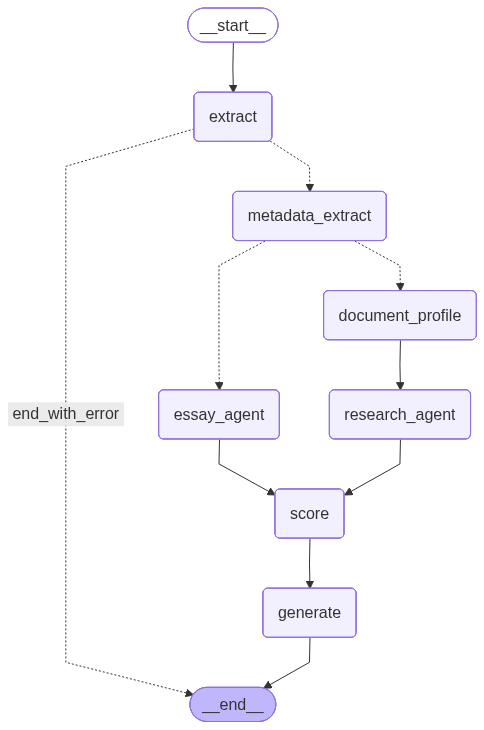
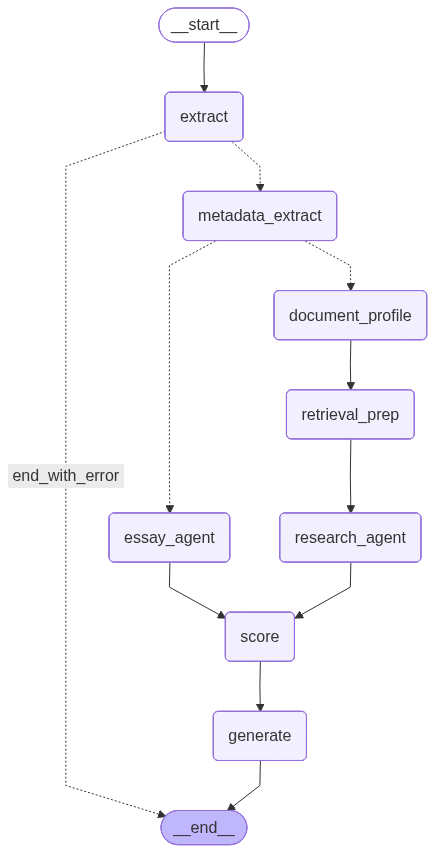
add: retrieval prep for search query generation

diff --git a/ai-agent/app/graph/nodes/retrieval_prep.py b/ai-agent/app/graph/nodes/retrieval_prep.py
@@ -1,0 +1,202 @@
+"""
+retrieval_prep.py — Retrieval Preparation Node (Fase 4)
+========================================================
+Node query generation khusus jalur research.
+Membangun search queries terstruktur dari metadata dan profil dokumen.
+
+Query dibangun per sumber:
+- semanticscholar: bahasa akademik formal, nama konsep lengkap
+- arxiv: istilah teknis presisi, singkatan metode
+- tavily: implementasi, benchmark, konteks umum
+
+Input: title, abstract, keywords, domain, sub_domain, paper_type, retrieval_focus
+Output: search_queries = {"semanticscholar": [...], "arxiv": [...], "tavily": [...]}
+
+Search belum dijalankan di fase ini — hanya pembentukan query.
+
+Flow: ... → document_profile → retrieval_prep → research_agent → ...
+"""
+
+import json
+import re
+
+from langchain_groq import ChatGroq
+from langchain_core.messages import SystemMessage, HumanMessage
+
+from app.graph.state import ReviewEngineState
+from app.core.config import settings
+
+# ── CONSTANTS ────────────────────────────────────────────────────────────────
+
+QUERY_GEN_SYSTEM_PROMPT = """Kamu adalah ahli strategi pencarian literatur akademik.
+Diberikan metadata dan profil sebuah paper, buat search query yang optimal untuk tiga mesin pencari berbeda.
+
+Setiap mesin pencari punya kekuatan berbeda:
+- semanticscholar: database akademik — gunakan bahasa akademik formal, nama konsep lengkap, nama penulis penting jika ada
+- arxiv: server preprint — gunakan istilah teknis presisi, nama model, singkatan metode
+- tavily: web search umum — gunakan istilah praktis, implementasi, benchmark, konteks terapan
+
+Jawab HANYA dengan objek JSON valid (tanpa markdown fences, tanpa teks tambahan):
+{
+  "semanticscholar": ["query1", "query2", "query3"],
+  "arxiv": ["query1", "query2", "query3"],
+  "tavily": ["query1", "query2", "query3"]
+}
+
+Aturan:
+- 3 query per mesin pencari, masing-masing maksimal 12 kata
+- Buat query dari spesifik ke umum: judul spesifik → metode → broader context
+- Gunakan sudut pandang berbeda: nama metode, masalah yang dipecahkan, perbandingan baseline, domain aplikasi
+- Untuk arxiv/semanticscholar: utamakan terminologi teknis/akademik
+- Untuk tavily: sertakan juga istilah praktis/implementasi
+- Sesuaikan query berdasarkan retrieval_focus yang diberikan
+"""
+
+
+# ── HELPERS ──────────────────────────────────────────────────────────────────
+
+def _safe_log(analysis_id: str, step: str, status: str, message: str) -> None:
+    """Logging ke Laravel secara best-effort."""
+    try:
+        import asyncio
+        from app.services.laravel_client import log_step
+        try:
+            loop = asyncio.get_running_loop()
+            loop.create_task(log_step(analysis_id, step, status, message))
+        except RuntimeError:
+            asyncio.run(log_step(analysis_id, step, status, message))
+    except Exception as exc:
+        print(f"[retrieval_prep][log_step] log gagal (diabaikan): {exc}")
+
+
+def _clean_llm_json(raw: str) -> str:
+    """Bersihkan output LLM dari markdown fences."""
+    raw = raw.strip()
+    raw = re.sub(r"^```(?:json)?\s*", "", raw)
+    raw = re.sub(r"\s*```$", "", raw)
+    return raw.strip()
+
+
+def _build_fallback_queries(state: ReviewEngineState) -> dict[str, list[str]]:
+    """Fallback queries berdasarkan title dan domain jika LLM gagal."""
+    title = (state.get("title") or "")[:80]
+    domain = state.get("domain") or "general"
+    sub_domain = state.get("sub_domain") or "general"
+    keywords = state.get("keywords") or []
+
+    # Query dasar dari title
+    base_query = title if title else f"{domain} {sub_domain}"
+    keyword_query = " ".join(keywords[:3]) if keywords else sub_domain
+
+    return {
+        "semanticscholar": [
+            base_query,
+            f"{sub_domain} state of the art",
+            keyword_query,
+        ],
+        "arxiv": [
+            base_query,
+            f"{sub_domain} survey",
+            keyword_query,
+        ],
+        "tavily": [
+            base_query,
+            f"{domain} research methods",
+            f"{sub_domain} implementation",
+        ],
+    }
+
+
+# ── NODE UTAMA ───────────────────────────────────────────────────────────────
+
+async def retrieval_prep_node(state: ReviewEngineState) -> dict:
+    """
+    LangGraph node: Generate search queries dari metadata & profil dokumen.
+
+    Input dari state:
+        - title, abstract, keywords (dari metadata_extract)
+        - domain, sub_domain, paper_type, retrieval_focus (dari document_profile)
+        - analysis_id (untuk logging)
+
+    Output (di-merge ke state):
+        - search_queries : dict per source, masing-masing berisi list query
+    """
+    analysis_id = state.get("analysis_id", "unknown")
+    title = state.get("title") or ""
+    abstract = state.get("abstract") or ""
+    keywords = state.get("keywords") or []
+    domain = state.get("domain") or "general"
+    sub_domain = state.get("sub_domain") or "general"
+    paper_type = state.get("paper_type") or "empirical"
+    retrieval_focus = state.get("retrieval_focus") or ["prior_work"]
+
+    print(f"\n[retrieval_prep] Memulai generasi search queries...")
+    _safe_log(analysis_id, "query_gen", "processing", "Membuat search queries...")
+
+    # ─── Guard: metadata terlalu minim → fallback ────────────────────────
+    if not title and not abstract:
+        print("[retrieval_prep] WARNING: title & abstract kosong, gunakan fallback queries")
+        fallback = _build_fallback_queries(state)
+        _safe_log(analysis_id, "query_gen", "done", "Queries: fallback (metadata kosong)")
+        return {"search_queries": fallback}
+
+    # ─── LLM call untuk generate queries ─────────────────────────────────
+    llm = ChatGroq(
+        model="llama-3.1-8b-instant",
+        temperature=0.3,   # Sedikit kreativitas untuk variasi query
+        api_key=settings.GROQ_API_KEY,
+    )
+
+    user_content = (
+        f"Paper Title: {title}\n"
+        f"Domain: {domain} / {sub_domain}\n"
+        f"Paper Type: {paper_type}\n"
+        f"Retrieval Focus: {', '.join(retrieval_focus)}\n"
+        f"Keywords: {', '.join(keywords)}\n\n"
+        f"Abstract:\n{abstract[:1200]}"
+    )
+
+    try:
+        response = await llm.ainvoke([
+            SystemMessage(content=QUERY_GEN_SYSTEM_PROMPT),
+            HumanMessage(content=user_content),
+        ])
+
+        cleaned = _clean_llm_json(response.content)
+        data = json.loads(cleaned)
+
+        # Parse & limit queries per source
+        search_queries = {
+            "semanticscholar": data.get("semanticscholar", [])[:3],
+            "arxiv": data.get("arxiv", [])[:3],
+            "tavily": data.get("tavily", [])[:3],
+        }
+
+        # Validasi minimal: pastikan ada query
+        total = sum(len(v) for v in search_queries.values())
+        if total == 0:
+            raise ValueError("LLM mengembalikan 0 queries")
+
+        print(f"[retrieval_prep] Queries generated:")
+        for source, queries in search_queries.items():
+            print(f"  [{source}] {queries}")
+
+        _safe_log(
+            analysis_id, "query_gen", "done",
+            f"Queries: {total} total (SS:{len(search_queries['semanticscholar'])}, "
+            f"arXiv:{len(search_queries['arxiv'])}, Tavily:{len(search_queries['tavily'])})",
+        )
+
+        return {"search_queries": search_queries}
+
+    except json.JSONDecodeError as exc:
+        print(f"[retrieval_prep] WARNING: JSON parse gagal: {exc}")
+        fallback = _build_fallback_queries(state)
+        _safe_log(analysis_id, "query_gen", "done", "Queries: fallback (JSON error)")
+        return {"search_queries": fallback}
+
+    except Exception as exc:
+        print(f"[retrieval_prep] WARNING: LLM call gagal: {exc}")
+        fallback = _build_fallback_queries(state)
+        _safe_log(analysis_id, "query_gen", "done", "Queries: fallback (error)")
+        return {"search_queries": fallback}

diff --git a/ai-agent/app/graph/builder.py b/ai-agent/app/graph/builder.py
@@ -6,6 +6,7 @@ from app.graph.nodes.extract import extract_node
 from app.graph.nodes.metadata_extract import metadata_extract_node
 from app.graph.nodes.essay_agent import essay_agent_node
 from app.graph.nodes.document_profile import document_profile_node
+from app.graph.nodes.retrieval_prep import retrieval_prep_node
 from app.graph.nodes.research_agent import research_agent_node
 from app.graph.nodes.score import score_node
 from app.graph.nodes.generate import generate_node
@@ -45,6 +46,7 @@ def build_graph() -> StateGraph:
     graph.add_node("metadata_extract", metadata_extract_node)  # Fase 1
     graph.add_node("essay_agent", essay_agent_node)
     graph.add_node("document_profile", document_profile_node)  # Fase 3
+    graph.add_node("retrieval_prep", retrieval_prep_node)      # Fase 4
     graph.add_node("research_agent", research_agent_node)      # Fase 2
     graph.add_node("score", score_node)
     graph.add_node("generate", generate_node)
@@ -53,7 +55,6 @@ def build_graph() -> StateGraph:
     graph.set_entry_point("extract")
     
     # 3. Conditional Edge setelah extract
-    # Jika valid → metadata_extract, jika gagal → END
     graph.add_conditional_edges(
         "extract",
         route_after_extract,
@@ -69,12 +70,13 @@ def build_graph() -> StateGraph:
         route_by_doc_type,
         {
             "essay_agent": "essay_agent",
-            "document_profile": "document_profile",  # Fase 3: research path
+            "document_profile": "document_profile",
         }
     )
     
-    # 5. Jalur research: document_profile → research_agent
-    graph.add_edge("document_profile", "research_agent")  # Fase 3
+    # 5. Jalur research: document_profile → retrieval_prep → research_agent
+    graph.add_edge("document_profile", "retrieval_prep")   # Fase 4
+    graph.add_edge("retrieval_prep", "research_agent")     # Fase 4
     
     # 6. Semua jalur agent → score → generate
     graph.add_edge("essay_agent", "score")

diff --git a/ai-agent/app/graph/nodes/essay_agent.py b/ai-agent/app/graph/nodes/essay_agent.py
@@ -8,7 +8,7 @@ async def essay_agent_node(state: dict) -> dict:
     agent_context = state["raw_markdown"][:6000]  # Batasi untuk context window
 
     # Generate search queries berdasarkan topik essay
-    search_queries = []  # MVP: belum pakai external search
+    search_queries = {}  # MVP: essay belum pakai external search
     
     await log_step(state["analysis_id"], "preparing", "done", "Konteks analisis siap")
     

diff --git a/ai-agent/app/graph/nodes/research_agent.py b/ai-agent/app/graph/nodes/research_agent.py
@@ -140,8 +140,8 @@ SELECTED DOCUMENT EXCERPT
 {evidence_excerpt}
 """.strip()
 
-    # Placeholder search queries — akan diisi di Fase 4
-    search_queries: list[str] = []
+    # search_queries diisi oleh retrieval_prep (Fase 4), bukan di sini
+    search_queries: dict[str, list[str]] = {}
 
     context_len = len(agent_context)
     print(f"[research_agent] Context dibangun: {context_len} chars")

diff --git a/ai-agent/app/graph/state.py b/ai-agent/app/graph/state.py
@@ -32,7 +32,7 @@ class ReviewEngineState(TypedDict):
 
     # Agent prep
     agent_context: str
-    search_queries: list[str]
+    search_queries: dict[str, list[str]]   # {"semanticscholar": [...], "arxiv": [...], "tavily": [...]}
 
     # Tools
     tool_results: Annotated[list[dict], operator.add]
